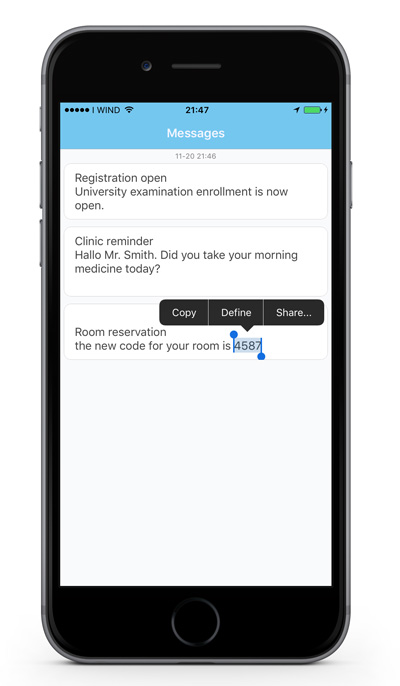
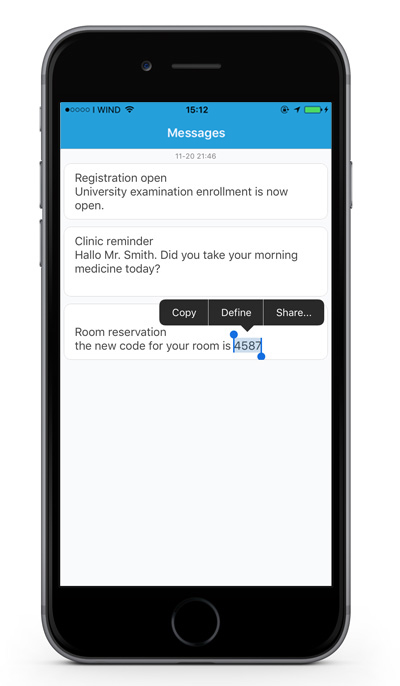
Changed background color

Changed region(s): [[0.15, 0.1224, 0.84, 0.2449]]

diff --git a/catapush-ios-sdk-example/MessageNavigationBar.m b/catapush-ios-sdk-example/MessageNavigationBar.m
@@ -13,7 +13,7 @@
 
 -(id) initWithCoder:(NSCoder *)aDecoder {
     self = [super initWithCoder:aDecoder];
-    [super setBarTintColor: RGB(93,191,238)];
+    [super setBarTintColor: RGB(0,144,213)];
     [super setTitleTextAttributes:@{NSForegroundColorAttributeName:RGB(245,245,255.0)}];
     return self;
 }
